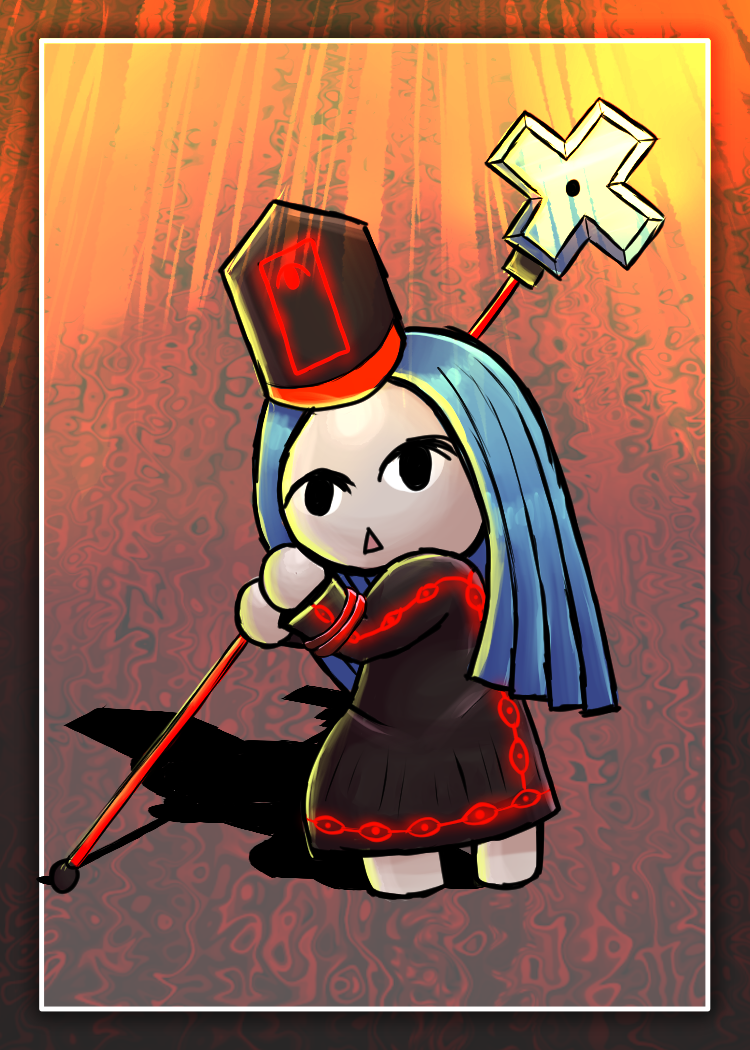
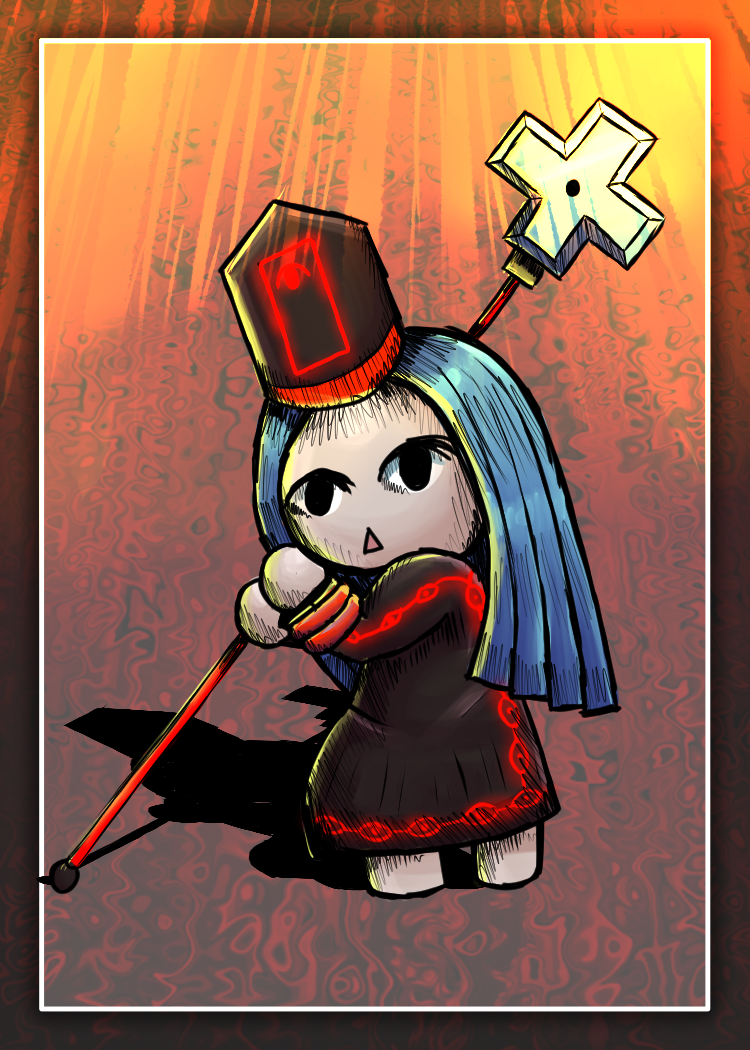
more art

diff --git a/patchnotes/version_B1.0.md b/patchnotes/version_B1.0.md
@@ -8,10 +8,10 @@ This will be the final update before the Pecto Pounding Invitational. This updat
 
 This update also introduces several foundational changes that simplify gameplay, improve consistency, and better support competitive play.
 
-Version 5.4 introduces major structural improvements to Pecto:
+Beta 1.0 introduces major structural improvements to Pecto:
 
 - Influence replaced with the Level Cap
-- Updated card draw
+- Updated card draw system
 - Updated combat
 - Face-down cards introduced
 - Token behavior standardized
@@ -24,11 +24,9 @@ These changes improve clarity, consistency, and competitive integrity ahead of t
 
 ## Core Rule Updates
 
-### Level Cap (Replaces Influence)
+### Level Cap
 
 The Influence system has been removed and replaced by a new resource called the Level Cap.
-
-Level Cap:
 
 Your Level Cap determines the highest LVL card you may play (from your hand).
 Your LVL cap is equal to the higher of 2 things:
@@ -43,43 +41,32 @@ Additional Changes:
 - All effects that modified Influence have been removed or redesigned.
 - Most of these effects now modify card LVL instead.
 
-### Combat
+### Card Draw/Opening Hand/Mulligans
 
-Combat is receiving a minor update with major rammifications.
+It was often the case that games would result in one player using up their hand in an early turn and then be unable to recover for the rest of the game. This usually meant previously that the better opening hand always won.
 
-- If a card takes damage greater than or equal to their FORCE, they perish at the end of combat.
-- If a card survives combat, it now restores all damage received.
-- When a card you control destroys a card in combat, draw a card.
+To fix this, opening hands are being nerfed (but becoming more consistent), and card draw is being buffed.
 
-*Note: this means that if 2 cards trade in combat, both players draw a card.*
+Note: Along with these changes, you can no longer choose to go first or second. If you win the coin flip/dice roll at the start, you always go first (going first is almost always better anyways).
 
-This makes large FORCE cards much scarier while also heavily increasing board prescence.
+- Opening Hand
+  - You now start with 3 cards in your opening hand.
 
-This change also does a few things to the game overall:
+- Mulligans
+  - After seeing your opening 3 cards, you can send up to 3 cards back to your deck and draw a new replacement card.
+  - If the player replaced any cards this way, shuffle your deck.
 
-- Makes direct damage/force loss stronger
-- Indirectly nerfs sacrificing cards, which was too strong
-- Causes cards to perish less often overall
-- Buffs the VICTOR trigger
-- Gives you a solid reason to play higher LVL cards (typically higher LVL = higher FORCE = easier to trade/kill)
+- Card Draw
+  - At the start of your turn, you now draw up to 3 cards.
+  - If you already have 3 or more cards, instead draw 1 card.
 
-### Movement
+### Movement Phase
 
-The movement phase is being removed. The movement phase was a secret outlier that caused games to be too fast, and is being partially reverted.
+Movement is being nerfed a decent amount since it often created unwinnable scenerios. Movement now functions as such:
 
-Movement now works as such:
+- Once per turn, you can swap 2 cards you control, unless they are static or inactive.
 
-- At any point during your turn when you could perform an action, you may declare you are moving a card.
-- You may then swap zones with another card you control if they are both active and not static.
-- The card that was swapped with then becomes inactive.
-
-Here's a breakdown of how this works now:
-
-1. Player 1 declares they are moving Card A.
-2. They then swap zones with Card B.
-3. Card B is now inactive, but Card A remains active allowing it to attack.
-
-This now makes movement more punishing, but also less confusing overall.
+This means that you can swap any 2 cards and neither will become inactive, but you can no longer move a card to an open zone. It also means you cannot attack, swap, attack with new card, but you can swap 2 cards to have them attack different targets. This also removes any confusing adjaceny based rules and streamlines things further.
 
 ### Healing
 
@@ -116,6 +103,24 @@ When flipped face-up on the board:
 - All Enter triggers activate.
 - Its LVL and FORCE reset to their original values.
 
+### Casting Cards
+
+This change helps to make casting a bit easier to understand, as well as fixing some annoying templating issues with casting.
+
+When you cast a card:
+
+1. It becomes inactive
+2. Its cast ability resolves
+3. It is sent to the discard (does not count as perishing)
+
+This means that if a card's cast ability interacts with the discard in any way, this card is not included (unless the ability itself sends it to the discard first somehow).
+
+A card also can never target itself with its cast ability. The card is considered to not exist anymore the second the cast trigger resolves, despite staying on the field. Because of this, if a card had an ability that sets a card, you can set it in the zone this card was cast from.
+
+---
+
+## General Gameplay updates
+
 ### Tokens
 
 Tokens now follow standard destruction rules.
@@ -124,10 +129,6 @@ Tokens now follow standard destruction rules.
 - Celestial tokens now have the Doom keyword to compensate.
 
 Tokens are now universally considered LVL 1 unless stated otherwise.
-
----
-
-## General Gameplay updates
 
 ### Discard Standardization
 
@@ -155,11 +156,7 @@ These are functionaly similar but the new version has less loopholes and is over
 
 - Has now been universally changed to "deals damage first when attacking".
 - This change was made so quick cards remain strong, but can actually be killed.
-
-### Immortal Keyword
-
-- A card with immortal is now immune to non-combat damage.
-- This does not mean they are immune to direct FORCE loss (target card loses 1 FORCE).
+- Effectively this now means that quick cards always win trades on your turn.
 
 ### Sick Keyword
 
@@ -188,14 +185,9 @@ Here is how the trigger now functions:
 1. Something causes the card to perish (combat, damage, destruction, etc).
 2. The effects of the perish trigger are queued.
 3. The effects of the perish trigger resolve.
-4. The card actually perishing is queued.
+4. The card then perishes and is sent to the discard.
 
-### Mulligans
-
-Mulligans are now being properly introduced.
-
-- If and only if you have no LVL 1 cards in your hand, you can shuffle your hand into your deck and draw 5 new cards.
-- You may mulligan as many times as you like under these conditions.
+Similar to casting, the card is already considered to have perished so it cannot be targetted by its own perish effect.
 
 ### Life
 
@@ -217,7 +209,7 @@ Several visual and structural improvements have been made to card templates.
 ### FORCE Display Improvements
 
 - The concept of no-force cards have been removed, in favour of 0 FORCE with text that says "cannot gain FORCE".
-- All instances of “? FORCE” have been replaced with 0 FORCE
+- All instances of “? FORCE” have been replaced with 0 FORCE, since they defaulted to 0 anyways.
 
 ### LVL Display Improvements
 